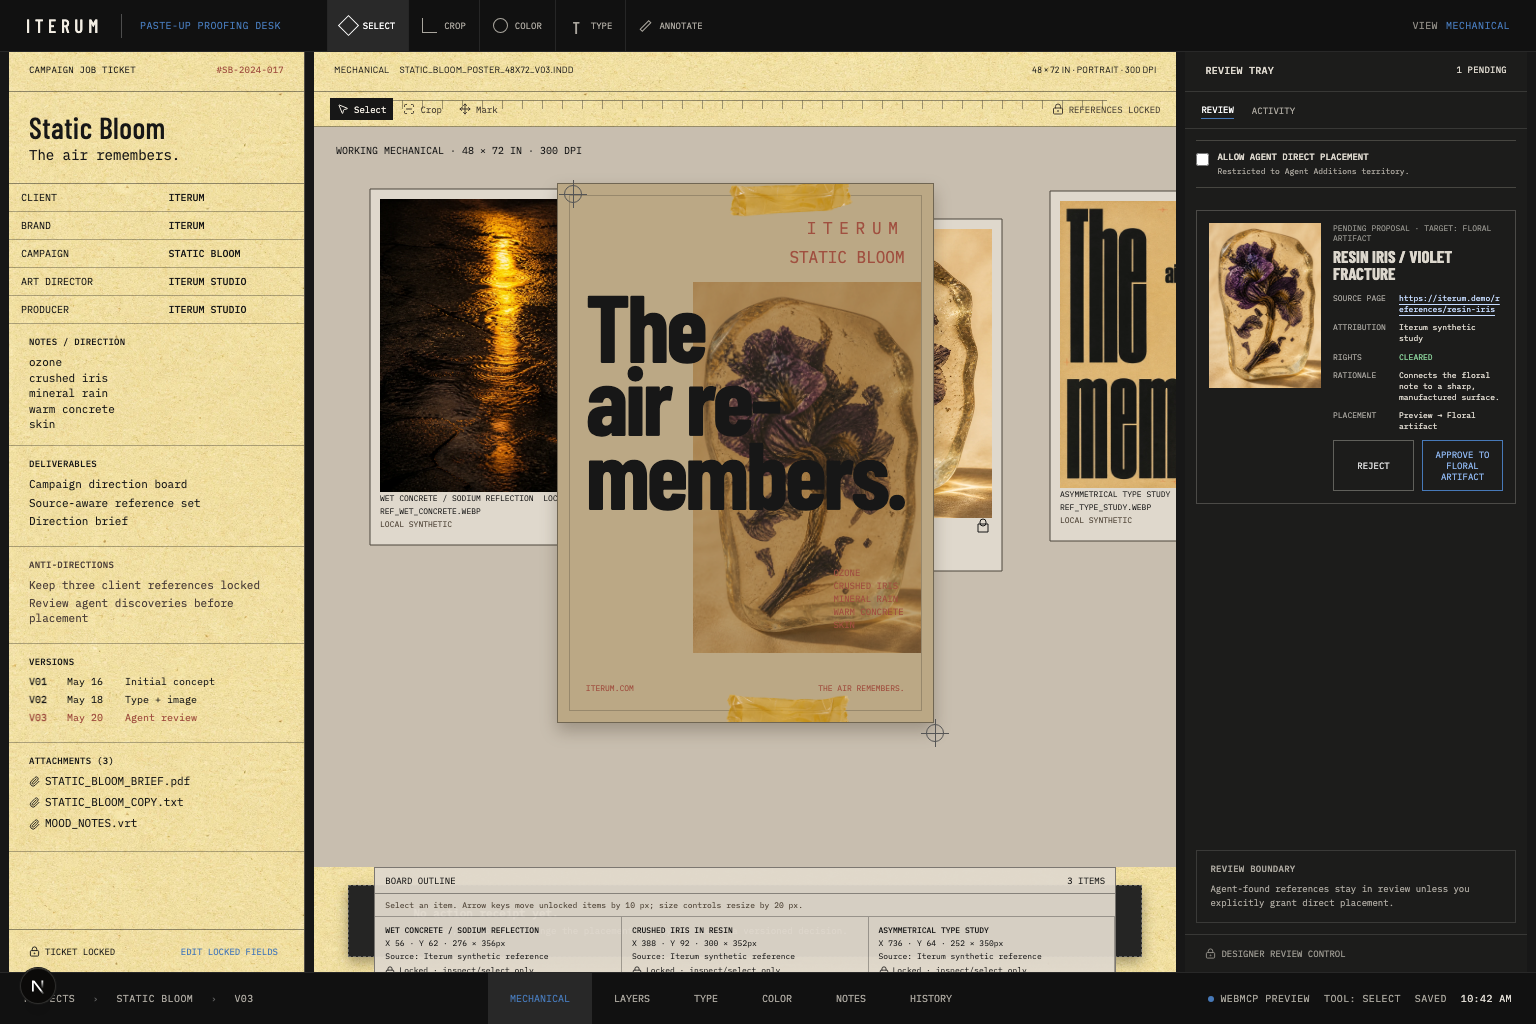
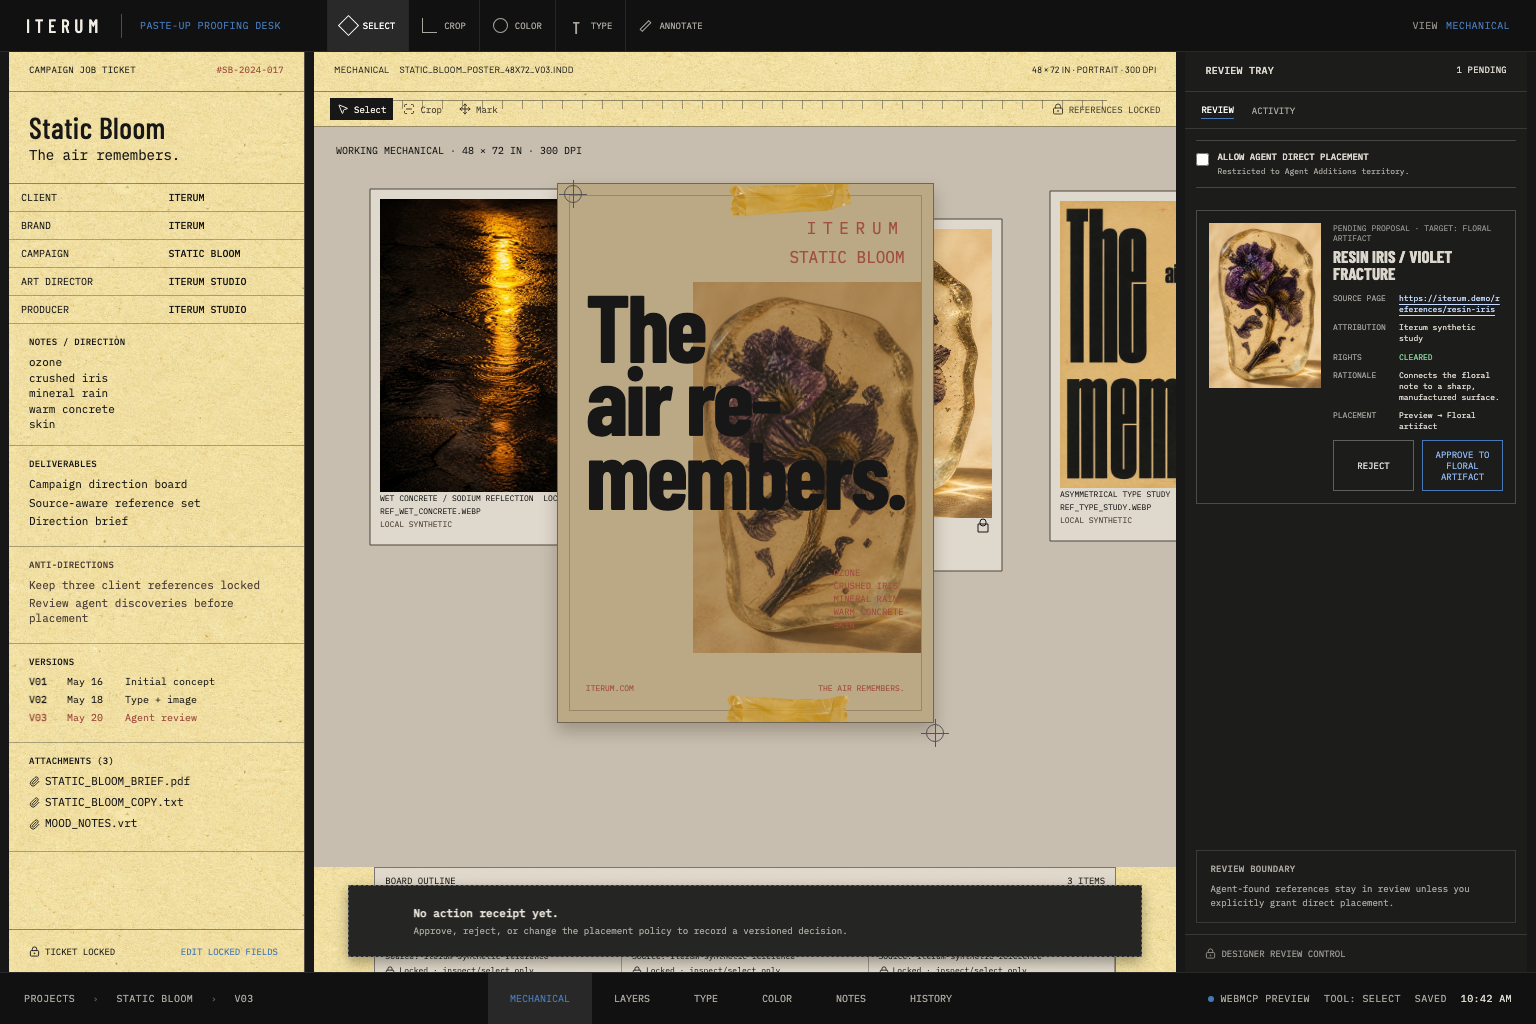
Refresh Iterum production evidence

Changed region(s): [[0.2188, 0.8438, 0.75, 0.9688], [0.0, 0.9375, 0.0312, 0.9688]]

diff --git a/task-7-report.md b/task-7-report.md
@@ -33,12 +33,13 @@
 
 - `npm run typecheck` — pass.
 - `npm test` — pass, 26 tests.
-- `npm run test:e2e` — pass, 3 tests.
+- `npm run test:e2e` — pass, 4 tests.
 - `npm run build` — pass.
 
 ## Commit
 
 - `d3395b9d472aa965c3510d5ae417f23dba3b76c7` — `Finish Iterum browser proof`.
+- `eea495c` — `Fix Iterum browser review findings`; post-fix typecheck, 26 unit tests, 4 E2E tests, and build passed. The three evidence PNGs were then recaptured from this production build at the same required viewports and manually validated.
 
 ## Concerns
 
